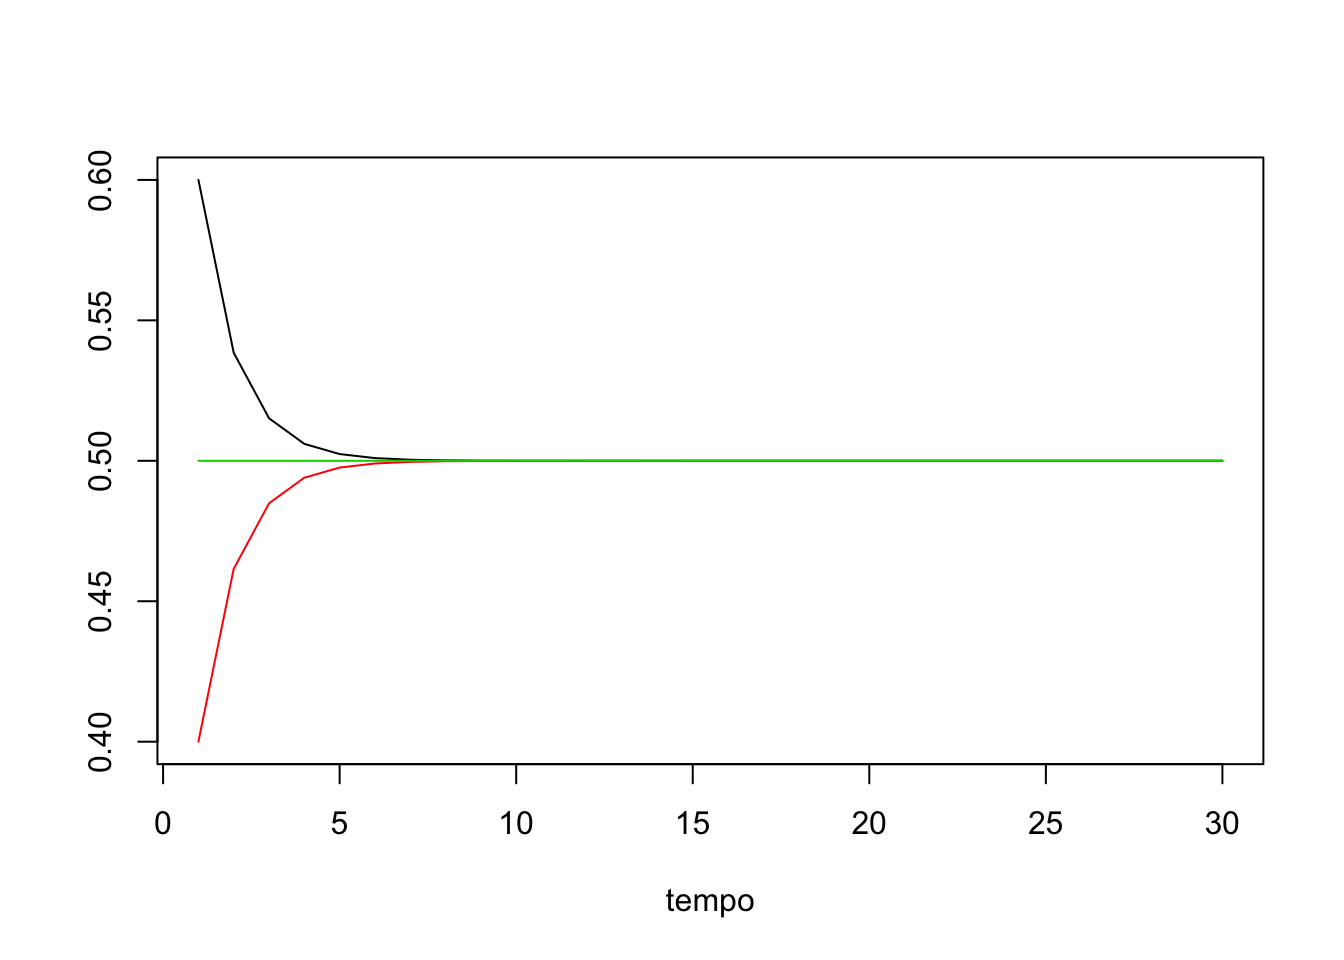
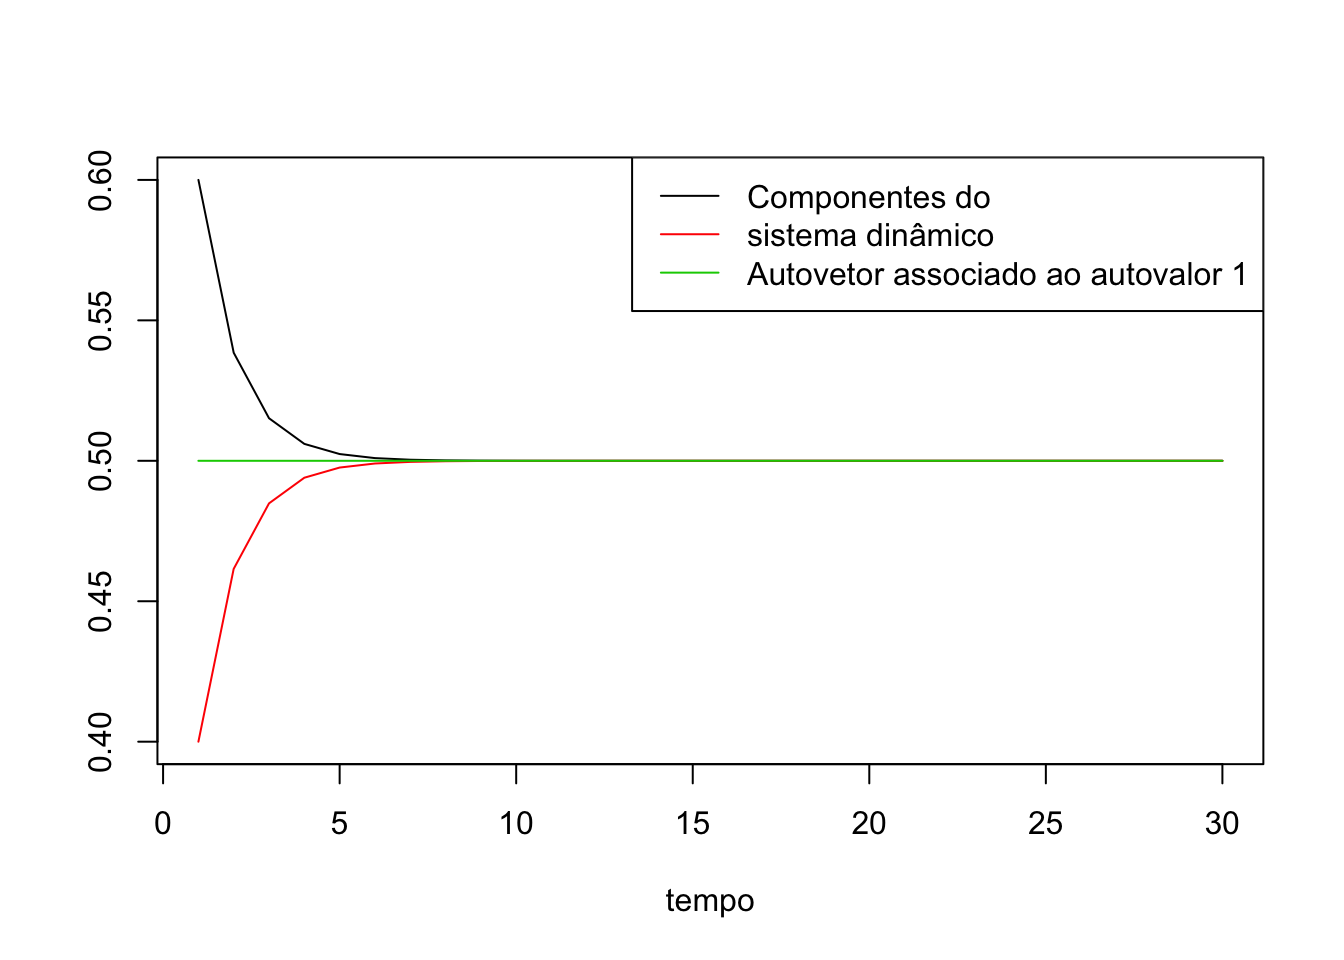
mudanças

Changed region(s): [[0.5625, 0.1875, 0.9062, 0.3125]]

diff --git a/public/2018/10/31/sistemas-dinâmicos-e-algebra-linear/index.html b/public/2018/10/31/sistemas-dinâmicos-e-algebra-linear/index.html
@@ -292,7 +292,7 @@ for(i in 1:19){
 plot(x[,1], type=&quot;l&quot;, ylab = &quot; &quot;, xlab = &quot;tempo&quot;)
 lines(x[,2], type = &quot;l&quot;, col = 2)</code></pre>
 <p><img src="/post/2018-10-31-sistemas-din%C3%A2micos-e-algebra-linear_files/figure-html/unnamed-chunk-2-1.png" width="672" /></p>
-<p>Veja que, nesse caso, o sistema converge para o vetor (0,0). Apesar disso parecer excessivamente rigído, podemos sempre pensar que o vetor <span class="math inline">\(x\)</span> representa desvios do equilíbrio e o equilíbrio é basicamente o que a gente quiser. Talvez um caso mais fascinante é quando nós temos o maior autovalor 1. O autovetor associado vai ser o equilíbrio do sistema. O exemplo abaixo ilustra isso, onde a linha verde representa o equilíbrio:</p>
+<p>Veja que, nesse caso, o sistema converge para o vetor (0,0). Com o maior autovalor menor que 1, isso é sempre verdade. Apesar disso parecer excessivamente rigído, podemos sempre pensar que o vetor <span class="math inline">\(x\)</span> representa desvios do equilíbrio e o equilíbrio é basicamente o que a gente quiser. Talvez um caso mais fascinante é quando nós temos o maior autovalor igual a 1. O autovetor associado vai ser o equilíbrio do sistema. O exemplo abaixo ilustra isso, onde a linha verde representa o equilíbrio:</p>
 <pre class="r"><code>C = rbind(c(0.8,0.2),c(0.4,0.6))
 eigen(C)</code></pre>
 <pre><code>## eigen() decomposition
@@ -312,9 +312,11 @@ for(i in 1:29){
 }
 plot(y[,1], type=&quot;l&quot;, ylab = &quot; &quot;, xlab = &quot;tempo&quot;, ylim = c(min(y),max(y)))
 lines(y[,2], col = 2)
-lines(1:30,rep(ee[1],30), col = 3)</code></pre>
+lines(1:30,rep(ee[1],30), col = 3)
+legend(&quot;topright&quot;,legend = c(&quot;Componentes do &quot;,&quot;sistema dinâmico&quot;, &quot;Autovetor associado ao autovalor 1&quot;), lty = c(1,1,1), col = c(1,2,3))</code></pre>
 <p><img src="/post/2018-10-31-sistemas-din%C3%A2micos-e-algebra-linear_files/figure-html/unnamed-chunk-3-1.png" width="672" /></p>
-<p>Como um augtovetor vezes um escalar é também um autovetor, eu escolhi o autovetor que somando os componentes, é igual 1. Isso permite interpretar o autovetor como a probabilidade, em equilíbrio, de cair em qualquer um dos dois estados.</p>
+<p>Como um autovetor vezes um escalar é também um autovetor, eu escolhi o autovetor que somando os componentes, é igual 1. Isso permite interpretar o autovetor como a probabilidade (incondicional), em equilíbrio, de cair em qualquer um dos dois estados.</p>
+<p>Veja que a matriz <span class="math inline">\(C\)</span>, que governa a evolução do sistema, é tal que cada linha soma 1. Isso nos permite interpretar cada entrada <span class="math inline">\(c_ij\)</span> como a probabilidade de migrar do estado <span class="math inline">\(j\)</span> se estamos no estado <span class="math inline">\(i\)</span>. Cada mudança de estado no sistema depende exclusivamente de qual era o estado anterior do sistema (matematicamente, <span class="math inline">\(P(x_t |x_{t-1},x_{t-2},x_{t-3},...) = P(x_t|x_{t-1})\)</span>): este tipo de processo recebe o nome de <em>Cadeia de Markov</em>. Um AR(1) é um exemplo de um processo de Markov também.</p>
 
 </div>
 

diff --git a/content/post/2018-10-31-sistemas-dinâmicos-e-algebra-linear.html b/content/post/2018-10-31-sistemas-dinâmicos-e-algebra-linear.html
@@ -60,7 +60,7 @@ for(i in 1:19){
 plot(x[,1], type=&quot;l&quot;, ylab = &quot; &quot;, xlab = &quot;tempo&quot;)
 lines(x[,2], type = &quot;l&quot;, col = 2)</code></pre>
 <p><img src="/post/2018-10-31-sistemas-din%C3%A2micos-e-algebra-linear_files/figure-html/unnamed-chunk-2-1.png" width="672" /></p>
-<p>Veja que, nesse caso, o sistema converge para o vetor (0,0). Apesar disso parecer excessivamente rigído, podemos sempre pensar que o vetor <span class="math inline">\(x\)</span> representa desvios do equilíbrio e o equilíbrio é basicamente o que a gente quiser. Talvez um caso mais fascinante é quando nós temos o maior autovalor 1. O autovetor associado vai ser o equilíbrio do sistema. O exemplo abaixo ilustra isso, onde a linha verde representa o equilíbrio:</p>
+<p>Veja que, nesse caso, o sistema converge para o vetor (0,0). Com o maior autovalor menor que 1, isso é sempre verdade. Apesar disso parecer excessivamente rigído, podemos sempre pensar que o vetor <span class="math inline">\(x\)</span> representa desvios do equilíbrio e o equilíbrio é basicamente o que a gente quiser. Talvez um caso mais fascinante é quando nós temos o maior autovalor igual a 1. O autovetor associado vai ser o equilíbrio do sistema. O exemplo abaixo ilustra isso, onde a linha verde representa o equilíbrio:</p>
 <pre class="r"><code>C = rbind(c(0.8,0.2),c(0.4,0.6))
 eigen(C)</code></pre>
 <pre><code>## eigen() decomposition
@@ -80,6 +80,8 @@ for(i in 1:29){
 }
 plot(y[,1], type=&quot;l&quot;, ylab = &quot; &quot;, xlab = &quot;tempo&quot;, ylim = c(min(y),max(y)))
 lines(y[,2], col = 2)
-lines(1:30,rep(ee[1],30), col = 3)</code></pre>
+lines(1:30,rep(ee[1],30), col = 3)
+legend(&quot;topright&quot;,legend = c(&quot;Componentes do &quot;,&quot;sistema dinâmico&quot;, &quot;Autovetor associado ao autovalor 1&quot;), lty = c(1,1,1), col = c(1,2,3))</code></pre>
 <p><img src="/post/2018-10-31-sistemas-din%C3%A2micos-e-algebra-linear_files/figure-html/unnamed-chunk-3-1.png" width="672" /></p>
-<p>Como um augtovetor vezes um escalar é também um autovetor, eu escolhi o autovetor que somando os componentes, é igual 1. Isso permite interpretar o autovetor como a probabilidade, em equilíbrio, de cair em qualquer um dos dois estados.</p>
+<p>Como um autovetor vezes um escalar é também um autovetor, eu escolhi o autovetor que somando os componentes, é igual 1. Isso permite interpretar o autovetor como a probabilidade (incondicional), em equilíbrio, de cair em qualquer um dos dois estados.</p>
+<p>Veja que a matriz <span class="math inline">\(C\)</span>, que governa a evolução do sistema, é tal que cada linha soma 1. Isso nos permite interpretar cada entrada <span class="math inline">\(c_ij\)</span> como a probabilidade de migrar do estado <span class="math inline">\(j\)</span> se estamos no estado <span class="math inline">\(i\)</span>. Cada mudança de estado no sistema depende exclusivamente de qual era o estado anterior do sistema (matematicamente, <span class="math inline">\(P(x_t |x_{t-1},x_{t-2},x_{t-3},...) = P(x_t|x_{t-1})\)</span>): este tipo de processo recebe o nome de <em>Cadeia de Markov</em>. Um AR(1) é um exemplo de um processo de Markov também.</p>

diff --git a/public/2018/10/10/prog-dinâmica-2a/index.html b/public/2018/10/10/prog-dinâmica-2a/index.html
@@ -325,7 +325,7 @@ plot!(sal[60:-1:1], lab = &quot;Salário&quot;)</code></pre>
 0.3 &amp; 0.7\\
 \end{pmatrix}
 \]</span></p>
-<p>Então, a probabilidade de permanecer no estado 1 é de 0.8; e a probabilidade de migrar para o estado 2, condicional a estar no estado 1, é de 0.2.</p>
+<p>Então, a probabilidade de permanecer no estado 1 é de 0.8; e a probabilidade de migrar para o estado 2, condicional a estar no estado 1, é de 0.2. Vamos estabelecer que o valor do salário em cada estado é (1,2). Nesse caso, podemos calcular o valor esperado analiticamente</p>
 
 </div>
 

diff --git a/content/post/Prog_dinamica/2018-10-10-prog-dinâmica-IIa.html b/content/post/Prog_dinamica/2018-10-10-prog-dinâmica-IIa.html
@@ -90,4 +90,4 @@ plot!(sal[60:-1:1], lab = &quot;Salário&quot;)</code></pre>
 0.3 &amp; 0.7\\
 \end{pmatrix}
 \]</span></p>
-<p>Então, a probabilidade de permanecer no estado 1 é de 0.8; e a probabilidade de migrar para o estado 2, condicional a estar no estado 1, é de 0.2.</p>
+<p>Então, a probabilidade de permanecer no estado 1 é de 0.8; e a probabilidade de migrar para o estado 2, condicional a estar no estado 1, é de 0.2. Vamos estabelecer que o valor do salário em cada estado é (1,2). Nesse caso, podemos calcular o valor esperado analiticamente</p>
